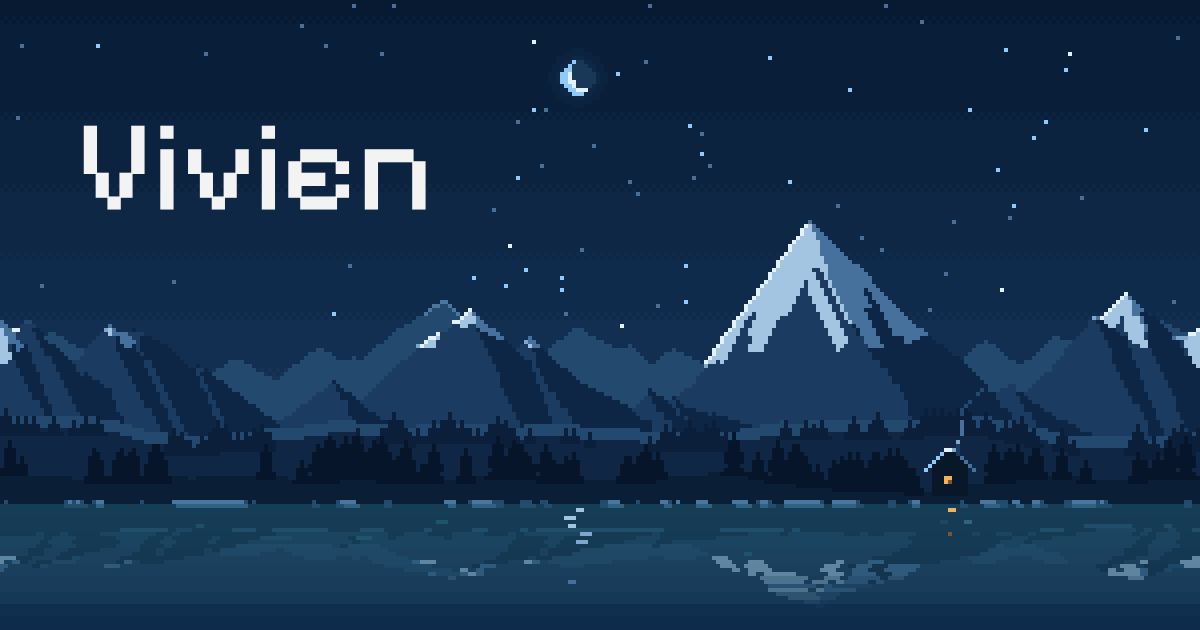
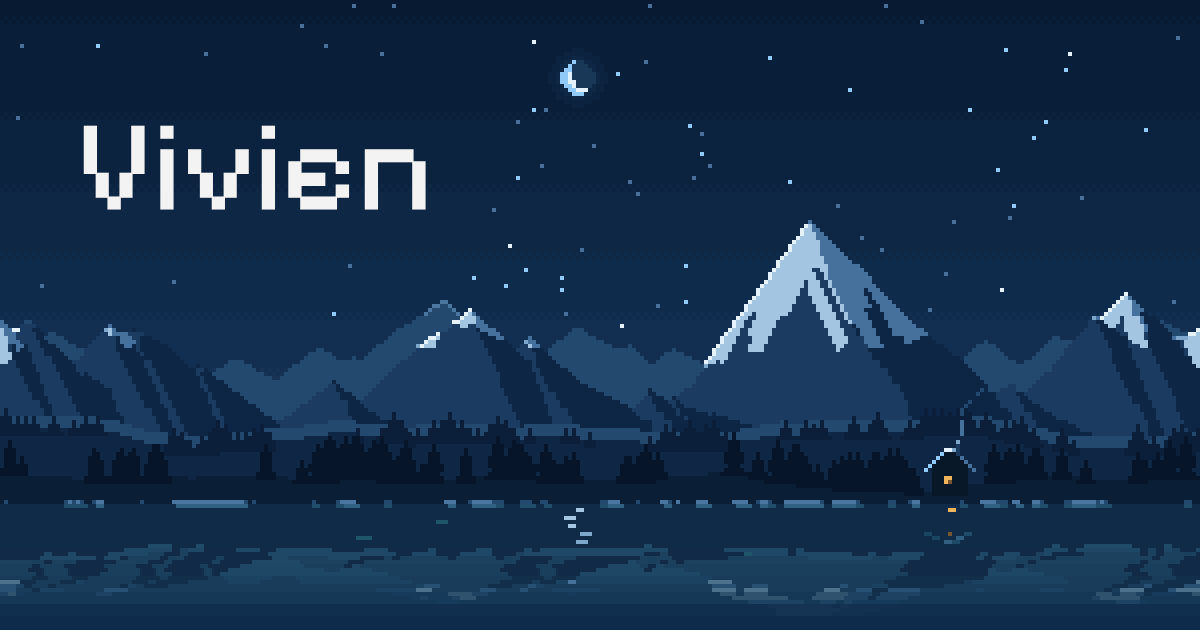
Fjord: a graded mirror, a dark shore reflection, and the right fade per orientation
- The water's fade checked portrait as horizon >= 70% of the height, which is the
  landscape horizon, so each orientation got the other's fade. Both now share one.
- The mirror is true to size at the shore and folds tighter with depth, instead of
  squashing every row about 3x; the treeline reflects as a band and the portrait
  horn reflects as an upside-down peak.
- Folded rows vote and the brightest wins, so the reflection no longer aliases into
  scattered specks.
- The dark shore reflects more strongly than the sky, so the water under the pines
  reads as their reflection rather than as a lighter strip.

Claude-Session: https://claude.ai/code/session_01W1WJo8FCiKhhtBsWrrJKbP

diff --git a/scene.js b/scene.js
@@ -130,11 +130,10 @@
   // the fjord keeps a fixed, small palette like the rest of the scene: a few depth bands, and in
   // each band one colour per kind of thing reflected (dark shore, sky and rock, haze, shaded
   // snow, lit snow). A continuous blend would mint a new in-between colour for every pixel.
-  let waterBand = null, waterPal = null, waterCls = null;
+  let waterBand = null, waterPal = null, waterCls = null, waterSrc = null, waterSpan = null;
   const WATER_EDGES = [0, 0.09, 0.2, 0.32, 0.44, 0.56, 0.67, 0.77, 0.86]; // the last band is the page colour itself
   function buildWater() {
     const depthRows = H - horizon;
-    const portrait = horizon >= H * 0.7;
     const REP = [C.hill, SKY[SKY.length - 1], C.haze, C.snowShade, C.snowLit];
     waterCls = new Map([[0, 1]]);
     for (const c of [C.near, C.pine, C.hill, C.hillTree, C.cabin, C.farShade, C.earthshine, C.lamp, C.ember]) waterCls.set(pack(c), 0);
@@ -142,6 +141,18 @@
     waterCls.set(pack(C.haze), 2);
     for (const c of [C.hazeSnow, C.snowShade, C.snowMid]) waterCls.set(pack(c), 3);
     for (const c of [C.snowLit, C.frost]) waterCls.set(pack(c), 4);
+    // the mirror is true to size at the shoreline, so the pines reflect as pines, and folds tighter
+    // with depth so the peaks still reach the water: source rows run u + a*u^2 above the horizon
+    const reach = Math.max(depthRows * 1.15, horizon * 0.6);
+    const a = (reach - depthRows) / (depthRows * depthRows);
+    const fold = (u) => u + a * u * u;
+    waterSrc = new Int16Array(depthRows);
+    waterSpan = new Uint8Array(depthRows);
+    for (let k = 0; k < depthRows; k++) {
+      const s0 = Math.round(fold(k)), s1 = Math.round(fold(k + 1));
+      waterSrc[k] = Math.max(0, horizon - 1 - s0);
+      waterSpan[k] = Math.max(1, Math.min(waterSrc[k] + 1, s1 - s0));
+    }
     waterBand = new Uint8Array(depthRows);
     for (let k = 0; k < depthRows; k++) {
       const d = k / depthRows;
@@ -153,10 +164,13 @@
     for (let b = 0; b < WATER_EDGES.length; b++) {
       const last = b === WATER_EDGES.length - 1;
       const d = last ? 1 : (WATER_EDGES[b] + WATER_EDGES[b + 1]) / 2;
-      const fade = portrait ? 0.5 * (1 - smooth(0.5, 0.88, d)) : 0.32 * Math.pow(1 - d, 1.1);
+      const fade = 0.5 * (1 - smooth(0.5, 0.88, d));
       const tint = Math.pow(Math.max(0, 1 - d / 0.82), 0.6);
       REP.forEach((s, k) => {
-        const c = last ? C.deep : s.map((v, i) => Math.round(v * fade + (C.deep[i] + (C.fjord[i] - C.deep[i]) * tint) * (1 - fade)));
+        // the dark shore reflects darker than the sky does, so the water under the pines reads as
+        // their reflection, not as open water
+        const f = k === 0 ? Math.min(1, fade * 1.8) : fade;
+        const c = last ? C.deep : s.map((v, i) => Math.round(v * f + (C.deep[i] + (C.fjord[i] - C.deep[i]) * tint) * (1 - f)));
         waterPal[b * REP.length + k] = pack(c);
       });
     }
@@ -495,23 +509,27 @@
 
     // the fjord: a rippling mirror, fjord-tinted, settling into the page colour
     const depthRows = H - horizon;
-    const mirror = Math.max(1.15, (horizon * 0.6) / (depthRows * 0.85));
     for (let y = horizon; y < H; y++) {
       const d = (y - horizon) / depthRows;
       const wob = Math.round(Math.sin((y - horizon) * 0.9 + t * 1.8) * (0.6 + d * 2.2));
-      // a shallow fjord (wide screens) folds the mirror tighter so the peaks still reach it
-      const sy = Math.max(0, horizon - 1 - Math.round((y - horizon) * mirror));
+      const sy = waterSrc[y - horizon], span = waterSpan[y - horizon];
       // thin calm-water breaks drift down through the mirror: rows where the reflection steps one
       // class quieter, so it gives way to the water without a hard gap
       const brk = nRay((y - horizon) * 0.8 - t * 0.6 + 300) > 0.7 ? 1 : 0;
       const pal = waterBand[y - horizon] * 5;
-      const row = y * W, src = sy * W;
+      const row = y * W;
       for (let x = 0; x < W; x++) {
-        const sx = x + wob < 0 ? 0 : x + wob >= W ? W - 1 : x + wob;
+        const sx = (x + wob < 0 ? 0 : x + wob >= W ? W - 1 : x + wob) & ~1;
         // read the mirror in pixel pairs from the static scene (stars and the moon never
-        // reflect; the moon has its own glade), so a checker seam above reflects as one flat band
-        let k = waterCls.get(base[src + (sx & ~1)]);
-        if (k === undefined) k = 1;
+        // reflect; the moon has its own glade), so a checker seam above reflects as one flat band;
+        // where the mirror folds, the rows it folds together vote and the brightest wins, so ribs
+        // and snow tongues never alias into scattered specks
+        let k = 0;
+        for (let r = 0; r < span; r++) {
+          const v = waterCls.get(base[(sy - r) * W + sx]);
+          const kk = v === undefined ? 1 : v;
+          if (kk > k) k = kk;
+        }
         if (brk && k > 1) k--;
         buf[row + x] = waterPal[pal + k];
       }

diff --git a/index.html b/index.html
@@ -13,7 +13,7 @@
   <meta property="og:site_name" content="Vivien">
   <meta property="og:description" content="Mechanical engineer, formerly a musician and programmer.">
   <meta property="og:url" content="https://meowzerskittycat.github.io/">
-  <meta property="og:image" content="https://meowzerskittycat.github.io/og.png?v=2f5544f2">
+  <meta property="og:image" content="https://meowzerskittycat.github.io/og.png?v=bed56443">
   <meta property="og:image:type" content="image/png">
   <meta property="og:image:width" content="1200">
   <meta property="og:image:height" content="630">

diff --git a/DESIGN.md b/DESIGN.md
@@ -240,7 +240,7 @@ The page has no buttons, inputs, navigation, or cards, by product decision (no l
 - **Do** keep layout left-aligned inside the fluid gutter, with generous viewport-scaled vertical space; add new facts as ledger rows on the shared label column.
 - **Do** keep motion slow and stepped (10fps for the scene, `steps()` timing for CSS), pause it offscreen, and hold it still for reduced-motion users.
 - **Do** draw rules as rows of square pixel dots in ridge blue.
-- **Do** keep the fjord on a fixed palette: the water is a few depth bands (the last one exactly the page colour), and each reflected pixel takes one of five colours per band by what it reflects (dark shore, sky and rock, haze, shaded snow, lit snow). Never blend reflections continuously; that mints dozens of one-off colours.
+- **Do** keep the fjord on a fixed palette: the water is a few depth bands (the last one exactly the page colour), and each reflected pixel takes one of five colours per band by what it reflects (dark shore, sky and rock, haze, shaded snow, lit snow). Never blend reflections continuously; that mints dozens of one-off colours. The mirror is true to size at the shoreline and folds tighter with depth (source rows u + a·u²), so the pines reflect as a dark band and the peaks still reach the water; where it folds several rows into one, the brightest of them wins, so ribs and snow tongues never alias into specks. The dark shore reflects 1.8 times as strongly as the sky, so the water under the pines reads as their reflection.
 - **Do** keep ridgelines clean: the crest's ruggedness lives at the scale of shoulders and dips (low-frequency noise), so each stretch of slope keeps an even stair-step of one- and two-pixel runs that change gradually, never a column-by-column stutter; no one-column notches, a summit ends in a single tip pixel, the frost crest covers every pixel the sky touches from above or from the west so it runs unbroken down steep steps, and the light/shadow split starts exactly at the summit.
 - **Do** keep the snow free of orphans: a snow patch of six pixels or fewer, or a small patch that never reaches the ridge crest, is noise and takes the rock colour beside it; likewise a rock speck of three pixels or fewer walled in by snow takes the snow beside it.
 - **Do** light the terrain from the moon's side: lit faces and the pines' shadows agree with where the moon hangs. The pines stay clean dark silhouettes, with no snow or rim pixels on their tiers, which read as speckle in dense stands.
